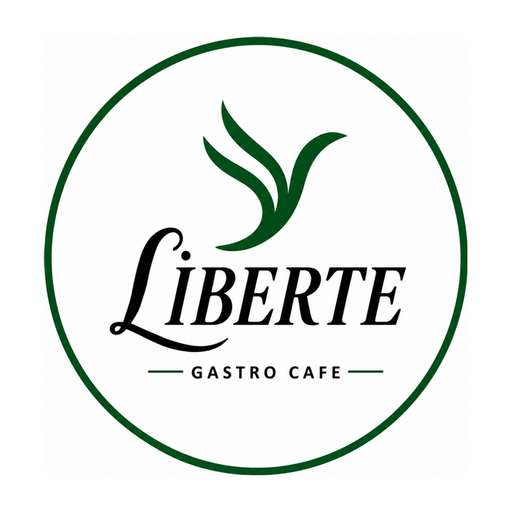
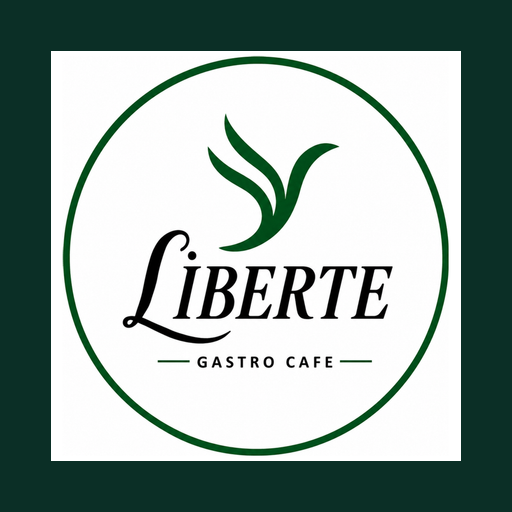
Uygulama ikonlarini beyaz yerine koyu yesil zeminle yenile.

diff --git a/index.html b/index.html
@@ -15,9 +15,9 @@
   <link href="https://fonts.googleapis.com/css2?family=DM+Sans:ital,opsz,wght@0,9..40,400;0,9..40,500;0,9..40,600;0,9..40,700;0,9..40,800;1,9..40,400&family=Fraunces:ital,opsz,wght@0,9..144,500;0,9..144,600;0,9..144,700;1,9..144,500&display=swap" rel="stylesheet" />
 
   <link rel="manifest" href="/manifest.webmanifest" />
-  <link rel="icon" type="image/png" sizes="32x32" href="/favicon-32.png" />
-  <link rel="icon" type="image/png" sizes="16x16" href="/favicon-16.png" />
-  <link rel="apple-touch-icon" href="/apple-touch-icon.png" />
+  <link rel="icon" type="image/png" sizes="32x32" href="/favicon-32.png?v=9" />
+  <link rel="icon" type="image/png" sizes="16x16" href="/favicon-16.png?v=9" />
+  <link rel="apple-touch-icon" href="/apple-touch-icon.png?v=9" />
 
   <!-- SPLASH-LINKS-START -->
   <link rel="apple-touch-startup-image" href="/splash/ios-1290x2796.png" media="(device-width: 430px) and (device-height: 932px) and (-webkit-device-pixel-ratio: 3) and (orientation: portrait)" />

diff --git a/src/lib/constants.js b/src/lib/constants.js
@@ -25,7 +25,7 @@ export const termsUrl = 'https://app.liberte.cafe/kullanim-sartlari';
 export const DEFAULT_LOGO = '/liberte-logo.png?v=7';
 
 // Push bildirim görselleri — badge liberte-logo silueti
-export const NOTIFICATION_ICON = '/icon-192.png?v=8';
+export const NOTIFICATION_ICON = '/icon-192.png?v=9';
 export const NOTIFICATION_BADGE = '/notification-badge.png';
 
 // Sadakat halkası statik bardak görseli (şeffaf PNG)
